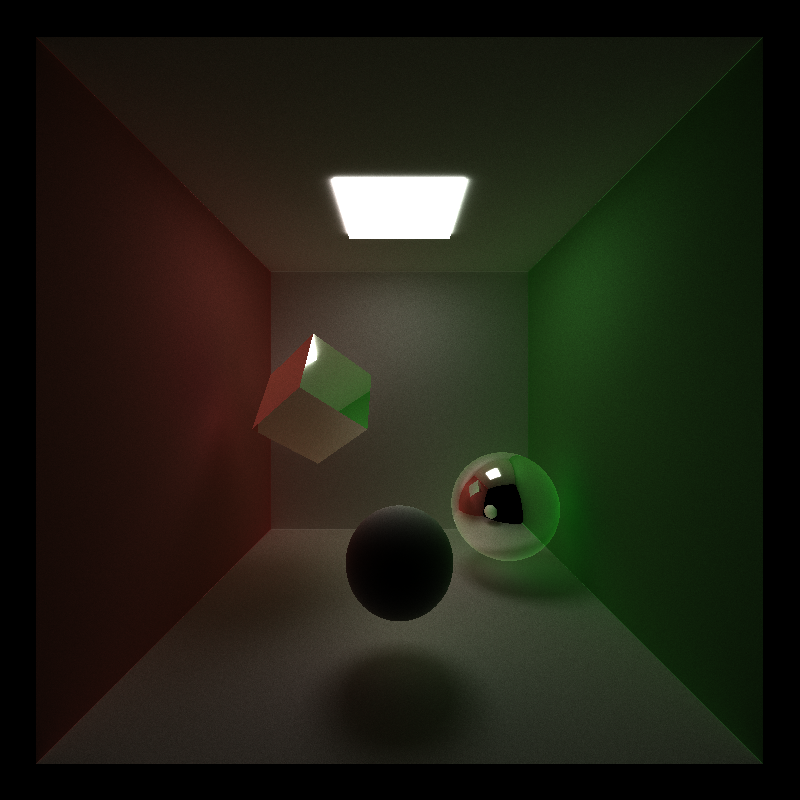
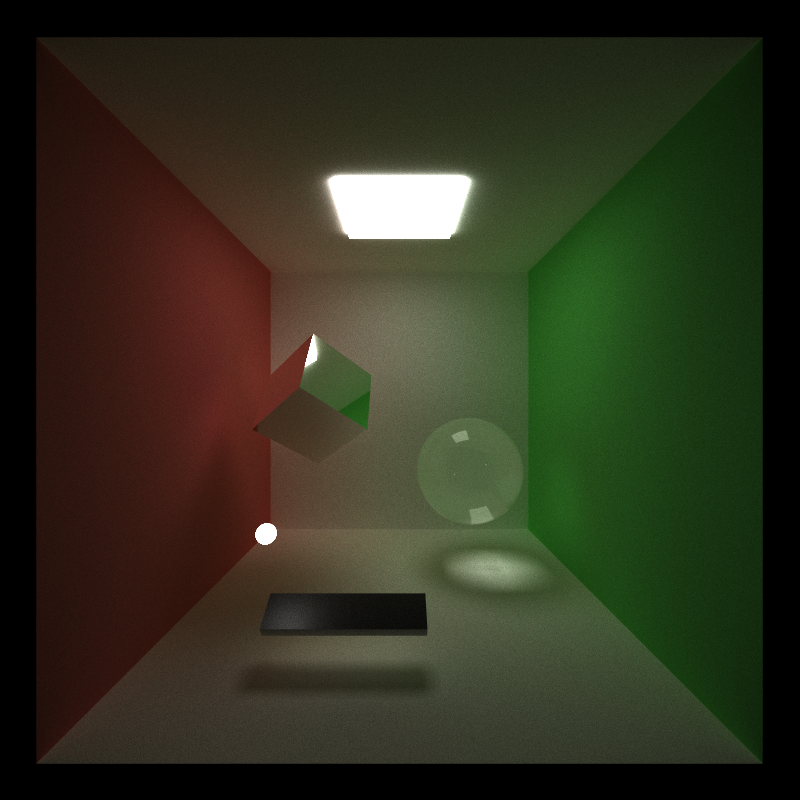
pbr_bug

Changed region(s): [[0.125, 0.1875, 0.9375, 0.9688]]

diff --git a/src/interactions.h b/src/interactions.h
@@ -5,6 +5,8 @@
 #include <thrust/remove.h>
 #include "intersections.h"
 
+//#define PBR
+
 // CHECKITOUT
 /**
 * Computes a cosine-weighted random direction in a hemisphere.
@@ -49,6 +51,89 @@ glm::vec3 calculateRandomDirectionInHemisphere(
         + sin(around) * over * perpendicularDirection2;
 }
 
+
+
+__host__ __device__
+glm::vec3 ggxImportanceSample(glm::vec3 normal, thrust::default_random_engine &rng, float exponent) {
+    thrust::uniform_real_distribution<float> u01(0, 1);
+
+    float u1 = u01(rng);
+    float u2 = u01(rng);
+    float phi = u1 * TWO_PI;
+    float cosTheta = sqrt((1.0f - u2) / ((exponent * exponent - 1.0f) * u2 + 1.0f));
+    float sinTheta = sqrt(1.0f - cosTheta * cosTheta);
+
+    // Find a direction that is not the normal based off of whether or not the
+    // normal's components are all equal to sqrt(1/3) or whether or not at
+    // least one component is less than sqrt(1/3). Learned this trick from
+    // Peter Kutz.
+
+    glm::vec3 directionNotNormal;
+    if (abs(normal.x) < SQRT_OF_ONE_THIRD) {
+        directionNotNormal = glm::vec3(1, 0, 0);
+    } else if (abs(normal.y) < SQRT_OF_ONE_THIRD) {
+        directionNotNormal = glm::vec3(0, 1, 0);
+    } else {
+        directionNotNormal = glm::vec3(0, 0, 1);
+    }
+    glm::vec3 worldX = glm::normalize(glm::cross(normal, directionNotNormal));
+    glm::vec3 worldY = glm::normalize(glm::cross(normal, worldX));
+    return sinTheta * cos(phi) * worldX + sinTheta * sin(phi) * worldY + cosTheta * normal;
+}
+
+__host__ __device__
+glm::vec3 fractRay(PathSegment &pathSegment, glm::vec3 normal, float prob) {
+
+    glm::vec3 direction;
+    float NI = glm::dot(normal, pathSegment.ray.diretion);
+    float ratio = 1.5f;
+    if (NI < 0) {
+        ratio = 1.f / ratio;
+    }
+    float r0 = (1.f - ratio) / (1.f + ratio);
+    r0 *= r0;
+    float x = 1.f + NI;
+    float r = r0 + (1.f - r0) * x * x * x * x * x;
+
+    if (prob < r) {
+        direction = glm::reflect(pathSegment.ray.diretion, normal);
+    } else {
+        direction = glm::refract(pathSegment.ray.diretion, normal, ratio);
+    }
+    return direction;
+}
+
+
+__host__ __device__
+float distributionGGX(glm::vec3 N, glm::vec3 H, float roughness) {
+    float a = roughness * roughness;
+    float NdotH = glm::max(glm::dot(N, H), 0.0f);
+    float NdotH2 = NdotH * NdotH;
+    float denom = (NdotH2 * (a - 1.0) + 1.0);
+
+    return a / (PI * denom * denom);
+}
+
+__host__ __device__
+float geometrySchlickGGX(float NdotV, float roughness) {
+    float r = roughness + 1.0f;
+    float k = r * r / 8.0f;
+    return NdotV / (NdotV * (1.0f - k) + k);
+}
+
+__host__ __device__
+float geometrySmith(glm::vec3 N, glm::vec3 V, glm::vec3 L, float roughness) {
+    float NdotV = glm::max(glm::dot(N, V), 0.0f);
+    float NdotL = glm::max(glm::dot(N, L), 0.0f);
+
+    return geometrySchlickGGX(NdotV, roughness) * geometrySchlickGGX(NdotL, roughness);
+}
+
+__host__ __device__
+glm::vec3 fresnelSchlickRoughness(float cosTheta, glm::vec3 F0, float roughness) {
+    return F0 + (glm::max(glm::vec3(1.0 - roughness), F0) - F0) * pow(1.0f - cosTheta, 5.0f);
+}
+
 /**
 * Scatter a ray with some probabilities according to the material properties.
 * For example, a diffuse surface scatters in a cosine-weighted hemisphere.
@@ -76,27 +161,6 @@ glm::vec3 calculateRandomDirectionInHemisphere(
 */
 
 
-__host__ __device__
-glm::vec3 fractRay(PathSegment &pathSegment, glm::vec3 normal, float prob) {
-
-    glm::vec3 direction;
-    float NI = glm::dot(normal, pathSegment.ray.diretion);
-    float ratio = 1.5f;
-    if (NI < 0) {
-        ratio = 1.f / ratio;
-    }
-    float r0 = (1.f - ratio) / (1.f + ratio);
-    r0 *= r0;
-    float x = 1.f + NI;
-    float r = r0 + (1.f - r0) * x * x * x * x * x;
-    
-    if (prob < r) {
-        direction = glm::reflect(pathSegment.ray.diretion, normal);
-    } else {
-        direction = glm::refract(pathSegment.ray.diretion, normal, ratio);
-    }
-    return direction;
-}
 
 __host__ __device__
 void scatterRay(
@@ -115,7 +179,12 @@ void scatterRay(
     glm::vec3 wi;
 
     if (m.hasReflective > 0) {
-        wi = glm::normalize(glm::reflect(pathSegment.ray.diretion, normal));
+        if (m.specular.exponent == 0.0f) {
+            wi = glm::normalize(glm::reflect(pathSegment.ray.diretion, normal));
+        } else {
+            wi = glm::normalize(ggxImportanceSample(normal, rng, m.specular.exponent));
+        }
+
         pathSegment.color *= m.specular.color;
     } else if (m.hasRefractive > 0) {
         float prob = u01(rng);
@@ -125,9 +194,28 @@ void scatterRay(
         //lambert
         wi = calculateRandomDirectionInHemisphere(normal, rng);
     }
+    if (m.indexOfRefraction == 1.0f) {
+
+        //pbr
+        float metallic = 0.2f;
+        float F0 = 0.3f;
+        float roughness = 0.8f;
+        glm::vec3 V = glm::dot(normal, pathSegment.ray.diretion) < 0.0f ? -pathSegment.ray.diretion : pathSegment.ray.diretion;
+        glm::vec3 H = glm::normalize(wi + V);
+        glm::vec3 F = fresnelSchlickRoughness(glm::max(glm::dot(V, normal), 0.0f), glm::vec3(F0, F0, F0), roughness);
+        float NDF = distributionGGX(normal, H, roughness);
+        float G = geometrySmith(normal, V, wi, roughness);
+
+        glm::vec3 Ks = F;
+        glm::vec3 Kd = (glm::vec3(1.0f, 1.0f, 1.0f) - Ks) * (1 - metallic);
+
+        glm::vec3 specular = (NDF * G * F) / (4 * glm::max(glm::dot(normal, V), 0.0f) * glm::max(glm::dot(normal, wi), 0.0f) + 0.001f);
+        glm::vec3 diffuse = Kd / PI;
+        float cosTheta = glm::max(glm::dot(normal, wi), 0.0f);
+        pathSegment.color *= (diffuse + specular);
+    }
     pathSegment.remainingBounces--;
     pathSegment.ray.position = intersect + wi * 0.001f;
     pathSegment.ray.diretion = wi;
     pathSegment.color *= m.color;
-    
 }

diff --git a/src/preview.cpp b/src/preview.cpp
@@ -166,8 +166,10 @@ bool init() {
 void mainLoop() {
     while (!glfwWindowShouldClose(window)) {
         glfwPollEvents();
-
+        time_t s = clock();
         runCuda();
+        time_t e = clock();
+        std::cout << e - s << std::endl;
         std::string title = "CUDA PT" + utilityCore::convertIntToString(iteration) + "iterations";
         glfwSetWindowTitle(window, title.c_str());
 

diff --git a/src/main.cpp b/src/main.cpp
@@ -35,7 +35,7 @@ int                 height;
 
 int main() {
     //const char* sceneFile = "cornellBox_threeSphere.txt";
-    const char* sceneFile = "cornell2.txt";
+    const char* sceneFile = "cornellBox.txt";
     scene = new Scene(sceneFile);
 
     iteration = 0;
